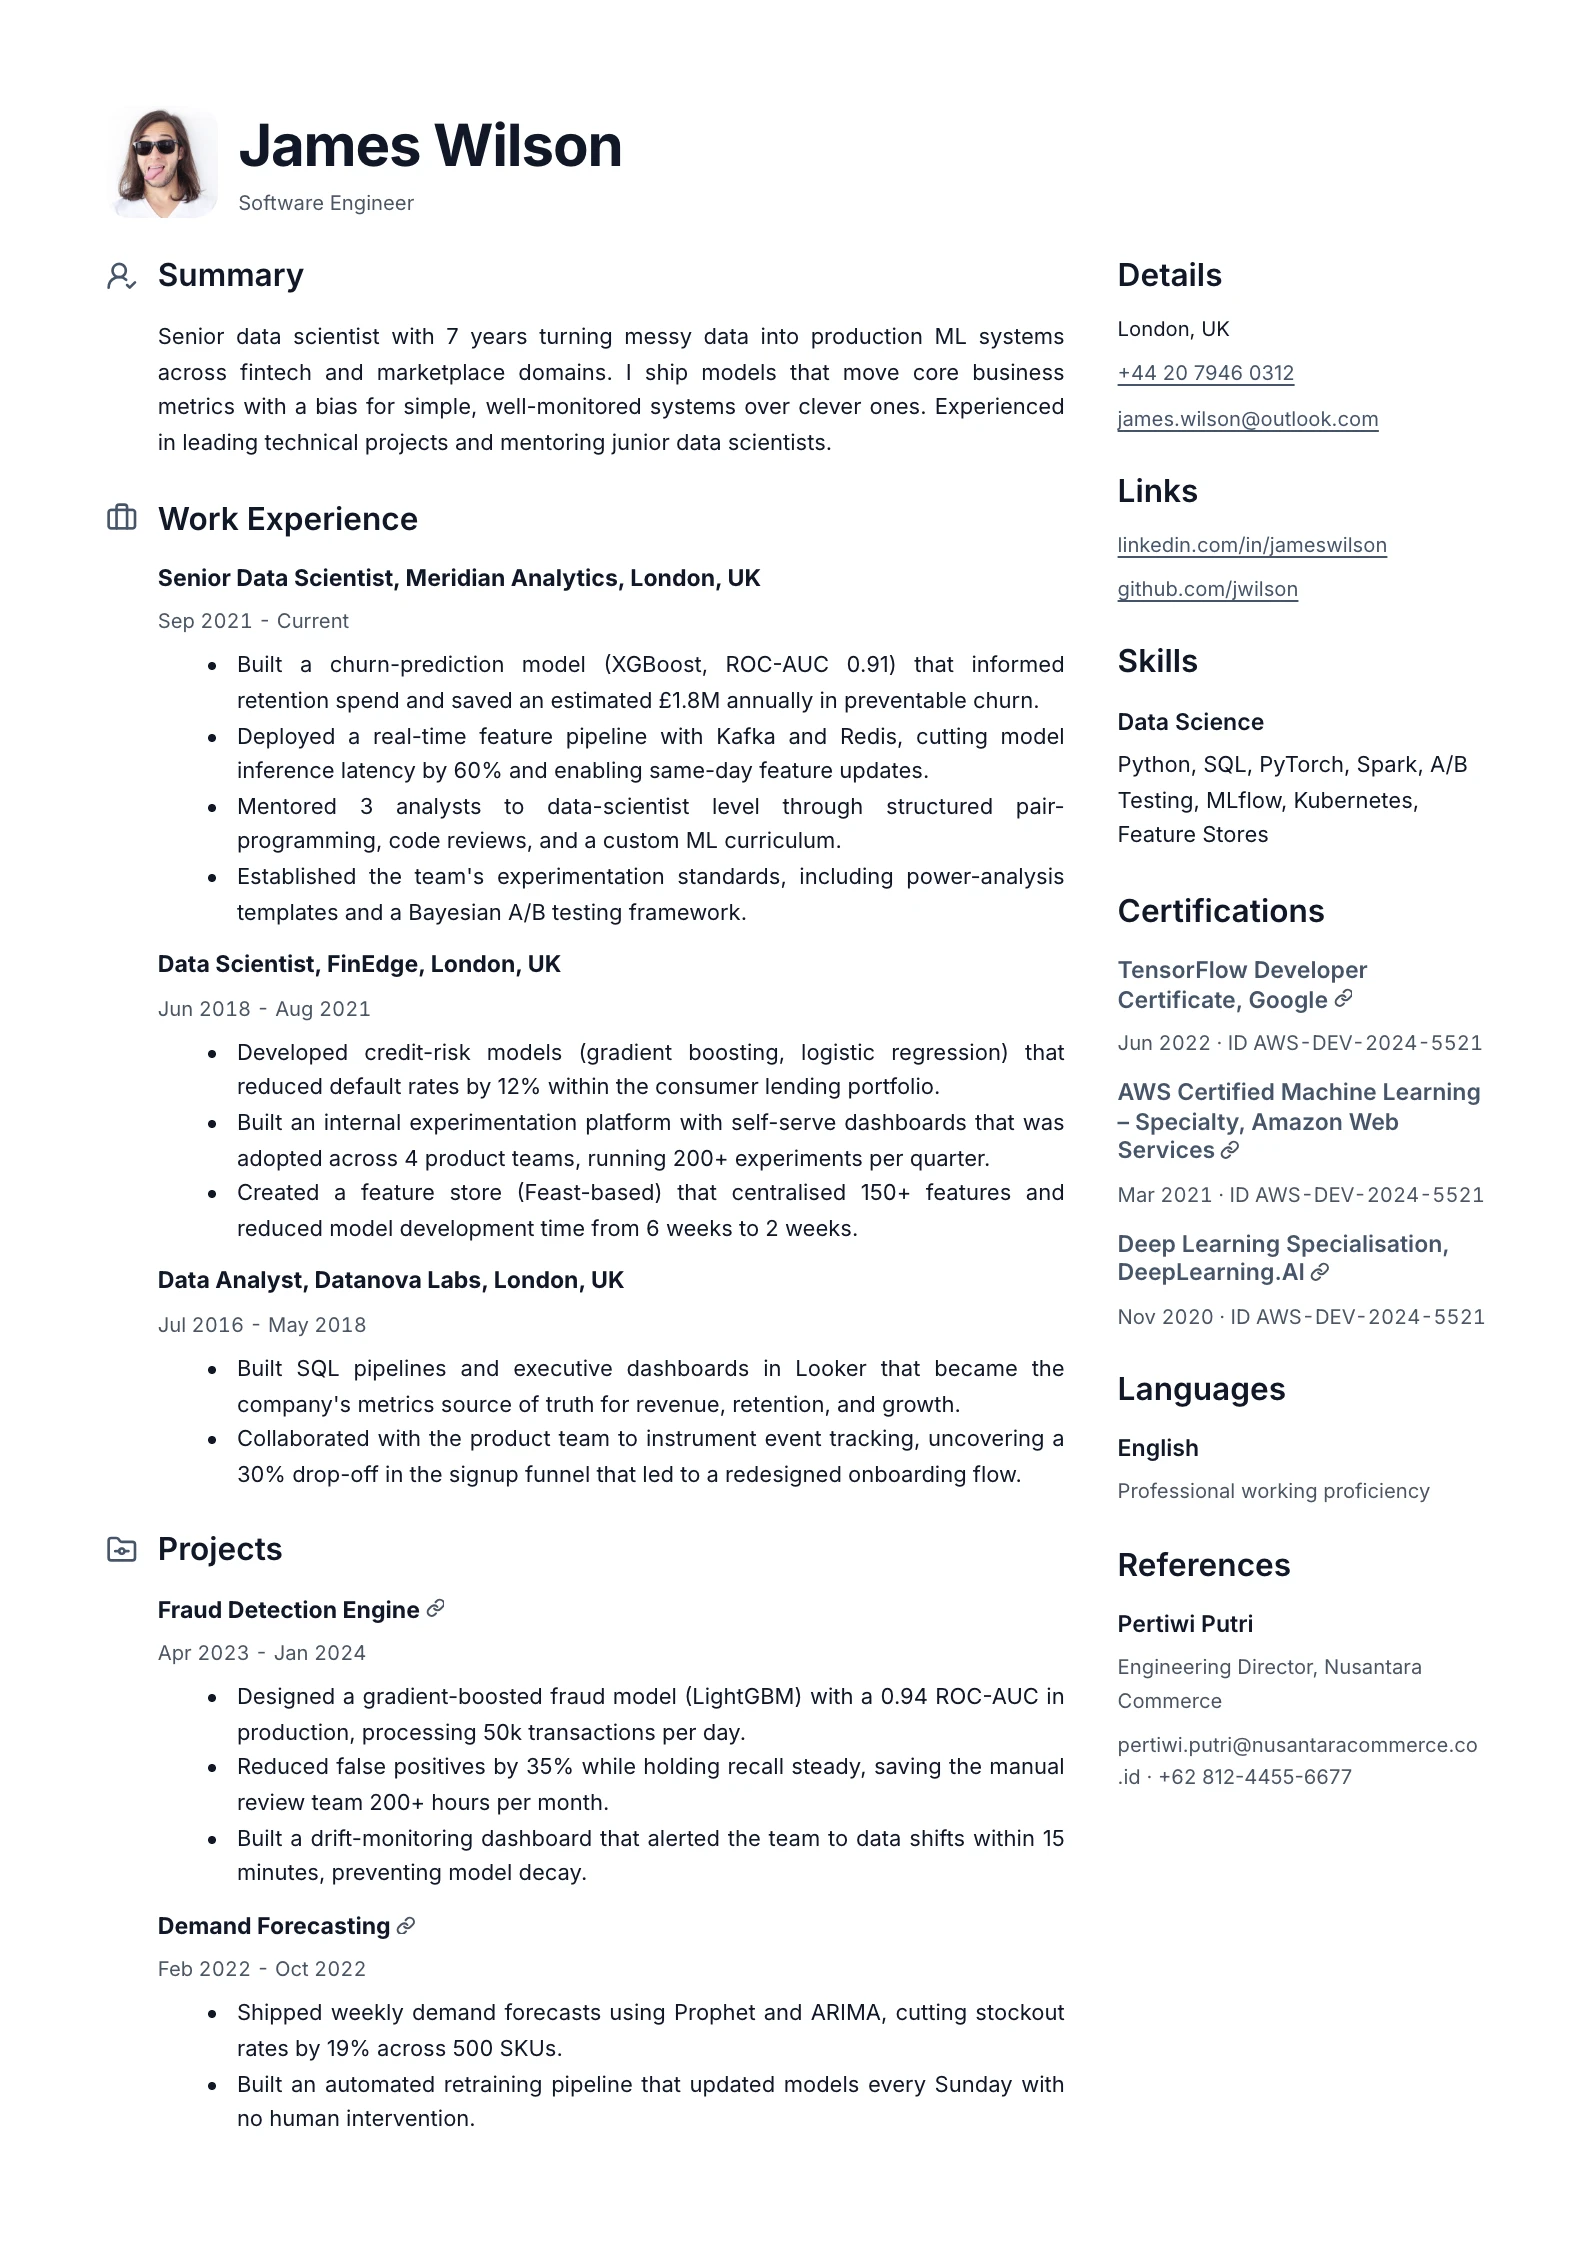
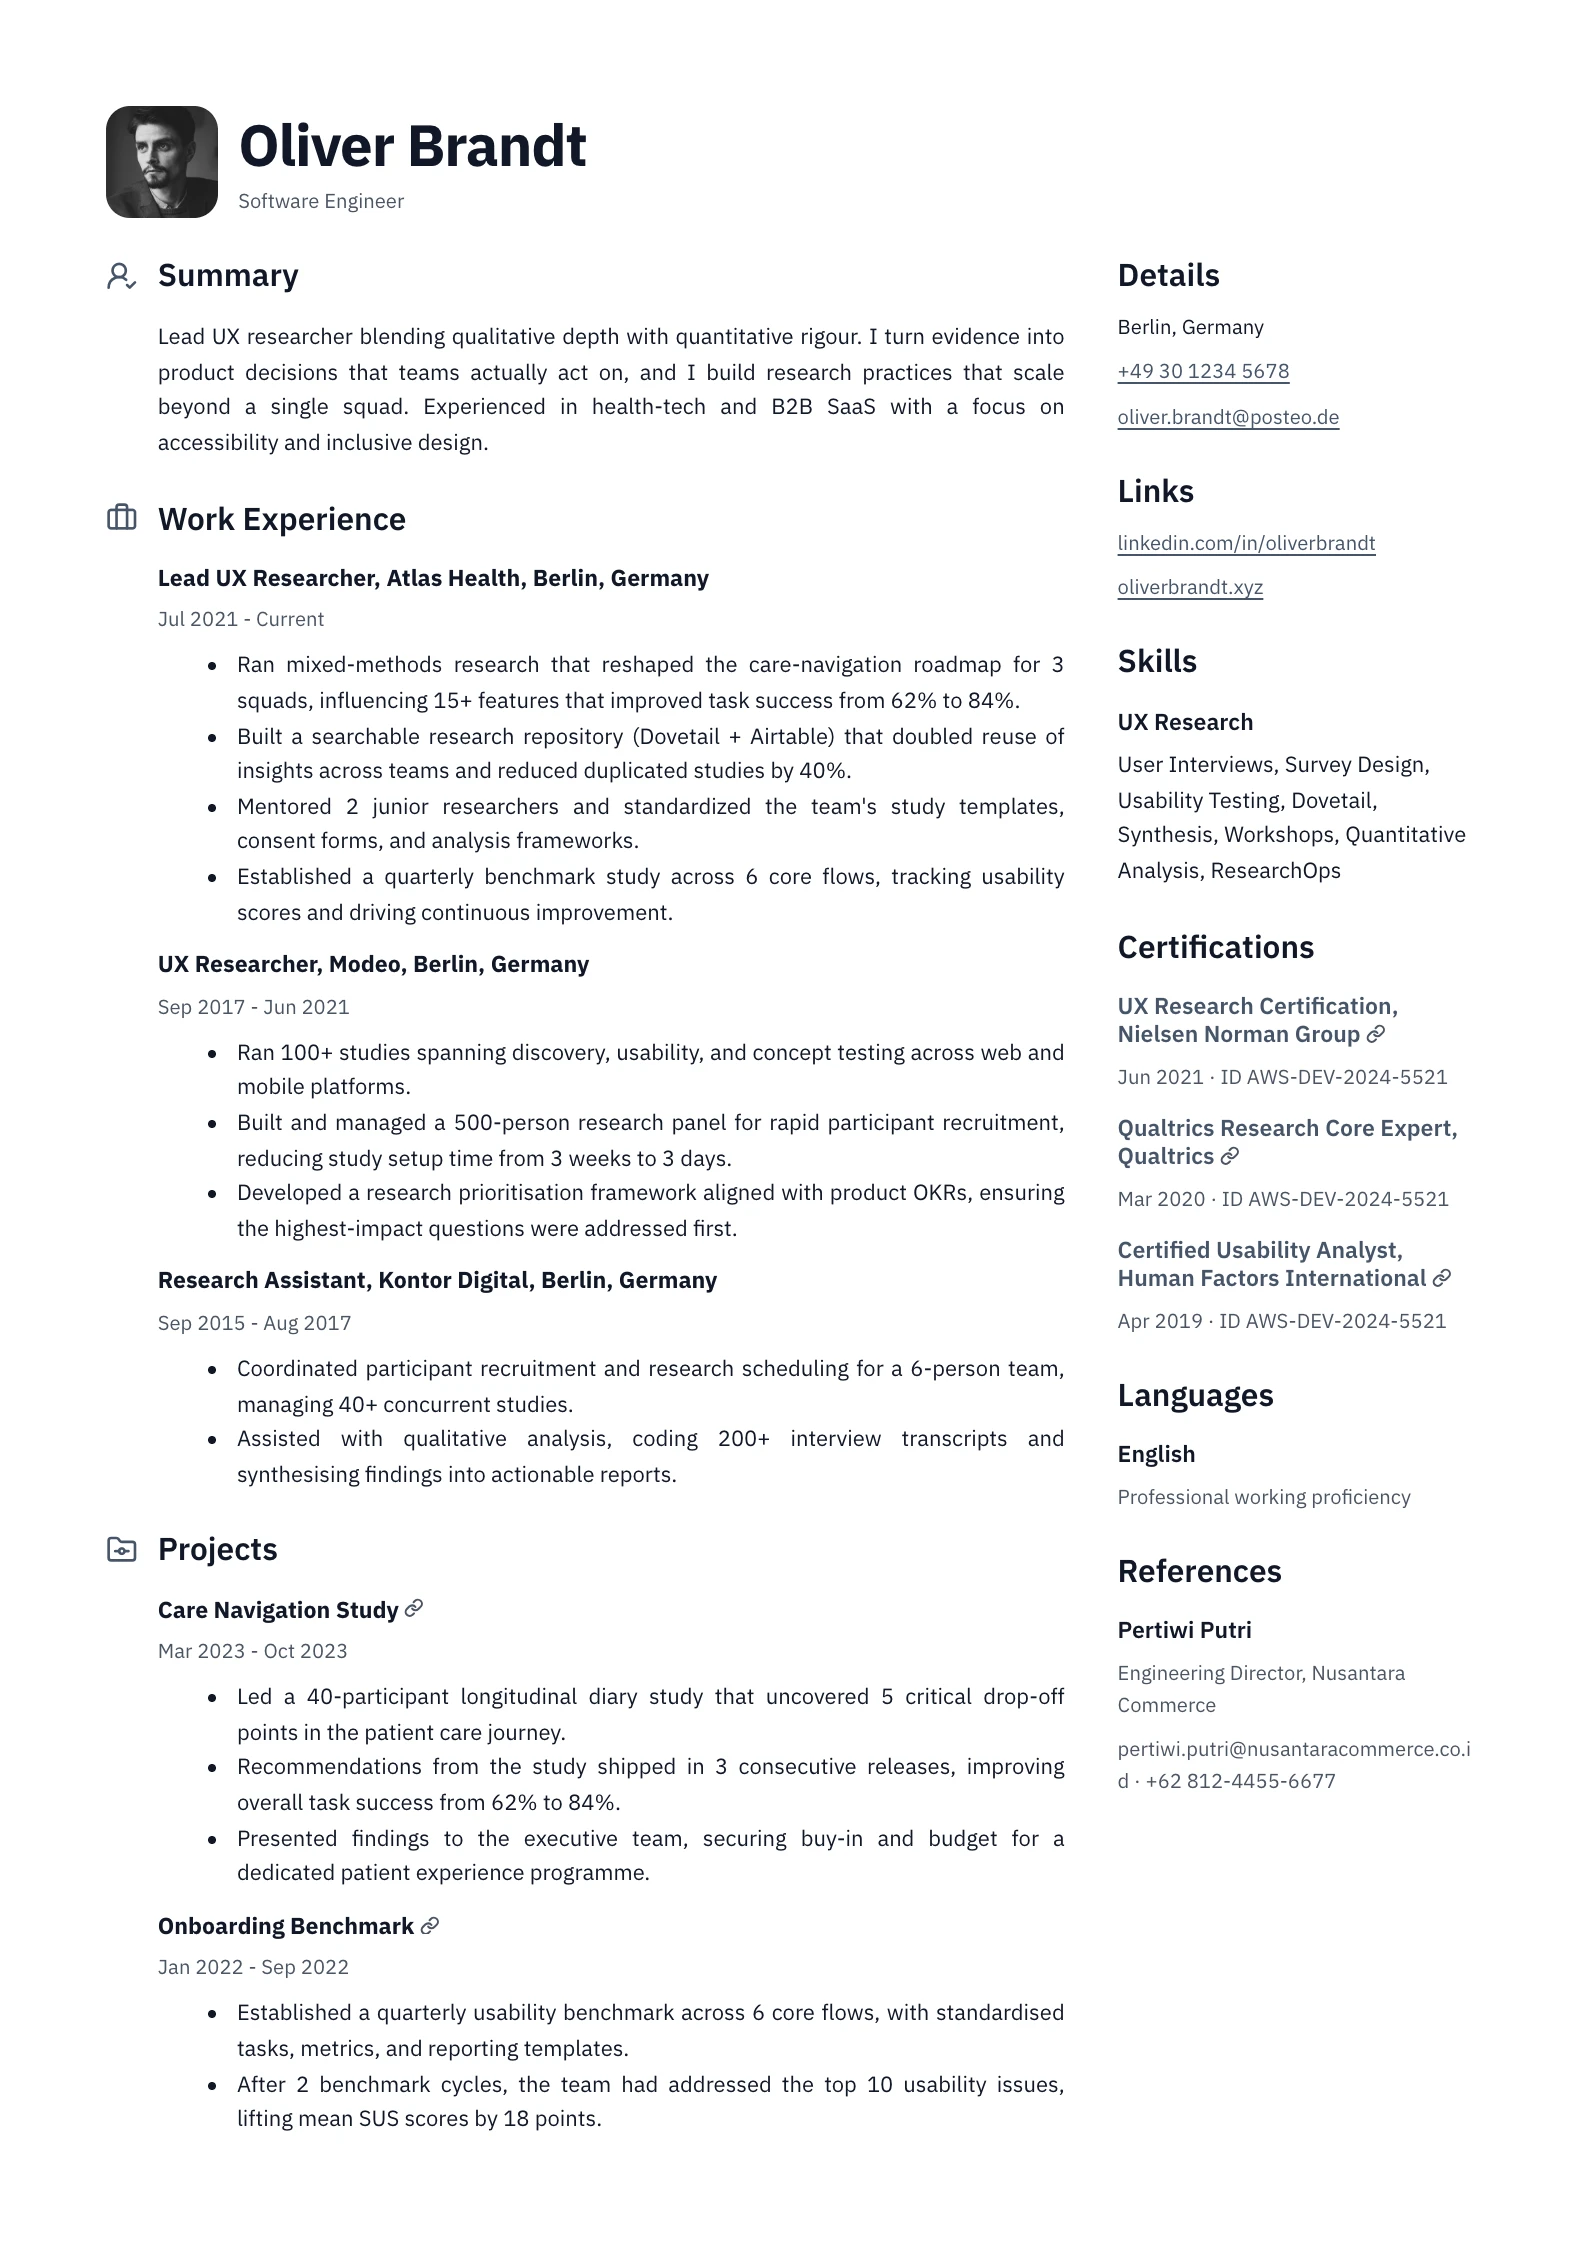
Widen the sans shelf, and re-font nine templates onto it
The font picker offered four sans faces — Inter, Lato, Open Sans, Roboto —
plus Arial, against seven serif and system choices. Every sans template
therefore drew from the same four, and the four are close enough that a
template's font was rarely the thing telling it apart.

Ten popular text sans faces are added to `src/app/fonts.ts` the way the
existing ones are loaded (`preload: false`, so they stay off the landing
page's critical path): Plus Jakarta Sans, Poppins, Montserrat, DM Sans,
Work Sans, Nunito Sans, Source Sans 3, Raleway, Manrope and IBM Plex Sans.
Poppins and IBM Plex Sans are not variable fonts, so both name their weights.

Then nine presets move onto them, one layout at a time, each pick made
against the rendered page rather than the font's reputation:

- Studio Violet    → Plus Jakarta Sans (a UI face for a product-UI layout)
- Masthead Citrus  → Montserrat        (the name plate is large uppercase)
- Bold Type Citrus → Poppins           (poster-scale type, marker highlights)
- Compass Slate    → IBM Plex Sans     (the marginal glyph index reads technical)
- Atlas Onyx       → Source Sans 3     (three narrow tracks want an economical face)
- Inset Steel      → Work Sans         (tight label gutter, compact density)
- Dossier Forest   → Manrope           (modern, but sober enough for the dark rail)
- Aurora Peach     → DM Sans           (geometric warmth under the gradient wash)
- Centered Ocean   → Nunito Sans       (a friendly face for a friendly format)
[…]

Changed region(s): [[0.0617, 0.0312, 0.6788, 0.9662], [0.7097, 0.0935, 0.9257, 0.8103]]

diff --git a/src/features/resume-editor/domain/presentation/template-presets.ts b/src/features/resume-editor/domain/presentation/template-presets.ts
@@ -28,6 +28,8 @@ export type ResumeTemplatePreset = {
 export const resumeTemplatePresets: ReadonlyArray<ResumeTemplatePreset> = [
   // Curation rules: `secondary` only for layouts that render it (else it's dead data the
   // active-template match still compares); density follows layout structure, not taste.
+  // A display sans (Poppins, Montserrat) only goes on a layout whose type is large;
+  // narrow-column layouts get a text sans that stays readable at 11px.
 
   // classic — traditional single column. Plain, ATS-safest pick; matches the stock default.
   {
@@ -77,7 +79,7 @@ export const resumeTemplatePresets: ReadonlyArray<ResumeTemplatePreset> = [
     style: {
       accent: "#0369a1",
       secondary: "#38bdf8",
-      fontFamilyId: "open-sans",
+      fontFamilyId: "nunito-sans",
       fontScale: "md",
       spacing: "standard",
       lineHeight: "standard",
@@ -171,7 +173,7 @@ export const resumeTemplatePresets: ReadonlyArray<ResumeTemplatePreset> = [
     layoutId: "inset",
     style: {
       accent: "#0f766e",
-      fontFamilyId: "open-sans",
+      fontFamilyId: "work-sans",
       fontScale: "sm",
       spacing: "compact",
       lineHeight: "standard",
@@ -255,7 +257,7 @@ export const resumeTemplatePresets: ReadonlyArray<ResumeTemplatePreset> = [
     layoutId: "bold-type",
     style: {
       accent: "#ea580c",
-      fontFamilyId: "inter",
+      fontFamilyId: "poppins",
       fontScale: "md",
       spacing: "compact",
       lineHeight: "tight",
@@ -282,7 +284,7 @@ export const resumeTemplatePresets: ReadonlyArray<ResumeTemplatePreset> = [
     layoutId: "studio",
     style: {
       accent: "#7c3aed",
-      fontFamilyId: "inter",
+      fontFamilyId: "plus-jakarta-sans",
       fontScale: "md",
       spacing: "standard",
       lineHeight: "standard",
@@ -323,7 +325,7 @@ export const resumeTemplatePresets: ReadonlyArray<ResumeTemplatePreset> = [
     style: {
       accent: "#fda4af",
       secondary: "#fdba74",
-      fontFamilyId: "lato",
+      fontFamilyId: "dm-sans",
       fontScale: "sm",
       spacing: "standard",
       lineHeight: "standard",
@@ -378,7 +380,7 @@ export const resumeTemplatePresets: ReadonlyArray<ResumeTemplatePreset> = [
     style: {
       accent: "#14261d",
       secondary: "#1f3d2b",
-      fontFamilyId: "inter",
+      fontFamilyId: "manrope",
       fontScale: "sm",
       spacing: "compact",
       lineHeight: "standard",
@@ -421,7 +423,7 @@ export const resumeTemplatePresets: ReadonlyArray<ResumeTemplatePreset> = [
     style: {
       accent: "#f7d949",
       secondary: "#111827",
-      fontFamilyId: "lato",
+      fontFamilyId: "montserrat",
       fontScale: "sm",
       spacing: "standard",
       lineHeight: "standard",
@@ -448,7 +450,7 @@ export const resumeTemplatePresets: ReadonlyArray<ResumeTemplatePreset> = [
     layoutId: "compass",
     style: {
       accent: "#475569",
-      fontFamilyId: "inter",
+      fontFamilyId: "ibm-plex-sans",
       fontScale: "sm",
       spacing: "standard",
       lineHeight: "standard",
@@ -502,7 +504,7 @@ export const resumeTemplatePresets: ReadonlyArray<ResumeTemplatePreset> = [
     layoutId: "atlas",
     style: {
       accent: "#171717",
-      fontFamilyId: "inter",
+      fontFamilyId: "source-sans-3",
       fontScale: "sm",
       spacing: "compact",
       lineHeight: "standard",

diff --git a/src/app/fonts.ts b/src/app/fonts.ts
@@ -1,10 +1,20 @@
 import {
+  DM_Sans,
+  IBM_Plex_Sans,
   Lato,
   Lora,
+  Manrope,
   Merriweather,
+  Montserrat,
+  Nunito_Sans,
   Open_Sans,
   Playfair_Display,
+  Plus_Jakarta_Sans,
+  Poppins,
+  Raleway,
   Roboto,
+  Source_Sans_3,
+  Work_Sans,
 } from "next/font/google";
 
 // Editor-preview-only fonts; `preload: false` keeps them off every route's
@@ -50,6 +60,78 @@ export const fontPlayfairDisplay = Playfair_Display({
 export const fontLora = Lora({
   subsets: ["latin"],
   variable: "--font-lora",
+  display: "swap",
+  preload: false,
+});
+
+export const fontPlusJakartaSans = Plus_Jakarta_Sans({
+  subsets: ["latin"],
+  variable: "--font-plus-jakarta-sans",
+  display: "swap",
+  preload: false,
+});
+
+export const fontPoppins = Poppins({
+  subsets: ["latin"],
+  weight: ["400", "500", "600", "700"],
+  variable: "--font-poppins",
+  display: "swap",
+  preload: false,
+});
+
+export const fontMontserrat = Montserrat({
+  subsets: ["latin"],
+  variable: "--font-montserrat",
+  display: "swap",
+  preload: false,
+});
+
+export const fontDmSans = DM_Sans({
+  subsets: ["latin"],
+  variable: "--font-dm-sans",
+  display: "swap",
+  preload: false,
+});
+
+export const fontWorkSans = Work_Sans({
+  subsets: ["latin"],
+  variable: "--font-work-sans",
+  display: "swap",
+  preload: false,
+});
+
+export const fontNunitoSans = Nunito_Sans({
+  subsets: ["latin"],
+  variable: "--font-nunito-sans",
+  display: "swap",
+  preload: false,
+});
+
+export const fontSourceSans3 = Source_Sans_3({
+  subsets: ["latin"],
+  variable: "--font-source-sans-3",
+  display: "swap",
+  preload: false,
+});
+
+export const fontRaleway = Raleway({
+  subsets: ["latin"],
+  variable: "--font-raleway",
+  display: "swap",
+  preload: false,
+});
+
+export const fontManrope = Manrope({
+  subsets: ["latin"],
+  variable: "--font-manrope",
+  display: "swap",
+  preload: false,
+});
+
+export const fontIbmPlexSans = IBM_Plex_Sans({
+  subsets: ["latin"],
+  weight: ["400", "500", "600", "700"],
+  variable: "--font-ibm-plex-sans",
   display: "swap",
   preload: false,
 });

diff --git a/src/features/resume-editor/domain/presentation/font-collection.ts b/src/features/resume-editor/domain/presentation/font-collection.ts
@@ -29,6 +29,76 @@ export const RESUME_FONTS = [
     source: "google",
     stack: 'var(--font-roboto), sans-serif',
   },
+  {
+    id: "plus-jakarta-sans",
+    name: "Plus Jakarta Sans",
+    category: "sans",
+    source: "google",
+    stack: 'var(--font-plus-jakarta-sans), sans-serif',
+  },
+  {
+    id: "poppins",
+    name: "Poppins",
+    category: "sans",
+    source: "google",
+    stack: 'var(--font-poppins), sans-serif',
+  },
+  {
+    id: "montserrat",
+    name: "Montserrat",
+    category: "sans",
+    source: "google",
+    stack: 'var(--font-montserrat), sans-serif',
+  },
+  {
+    id: "dm-sans",
+    name: "DM Sans",
+    category: "sans",
+    source: "google",
+    stack: 'var(--font-dm-sans), sans-serif',
+  },
+  {
+    id: "work-sans",
+    name: "Work Sans",
+    category: "sans",
+    source: "google",
+    stack: 'var(--font-work-sans), sans-serif',
+  },
+  {
+    id: "nunito-sans",
+    name: "Nunito Sans",
+    category: "sans",
+    source: "google",
+    stack: 'var(--font-nunito-sans), sans-serif',
+  },
+  {
+    id: "source-sans-3",
+    name: "Source Sans 3",
+    category: "sans",
+    source: "google",
+    stack: 'var(--font-source-sans-3), sans-serif',
+  },
+  {
+    id: "raleway",
+    name: "Raleway",
+    category: "sans",
+    source: "google",
+    stack: 'var(--font-raleway), sans-serif',
+  },
+  {
+    id: "manrope",
+    name: "Manrope",
+    category: "sans",
+    source: "google",
+    stack: 'var(--font-manrope), sans-serif',
+  },
+  {
+    id: "ibm-plex-sans",
+    name: "IBM Plex Sans",
+    category: "sans",
+    source: "google",
+    stack: 'var(--font-ibm-plex-sans), sans-serif',
+  },
   // Serif — Google Fonts
   {
     id: "merriweather",

diff --git a/src/app/layout.tsx b/src/app/layout.tsx
@@ -6,12 +6,22 @@ import { cn } from "@/lib/utils";
 import { Toaster } from "@/components/ui/toast";
 import { TooltipProvider } from "@/components/ui/tooltip";
 import {
+  fontDmSans,
+  fontIbmPlexSans,
   fontLato,
   fontLora,
+  fontManrope,
   fontMerriweather,
+  fontMontserrat,
+  fontNunitoSans,
   fontOpenSans,
   fontPlayfairDisplay,
+  fontPlusJakartaSans,
+  fontPoppins,
+  fontRaleway,
   fontRoboto,
+  fontSourceSans3,
+  fontWorkSans,
 } from "@/app/fonts";
 
 const inter = Inter({ subsets: ["latin"], variable: "--font-sans" });
@@ -79,6 +89,16 @@ export default function RootLayout({
         fontMerriweather.variable,
         fontPlayfairDisplay.variable,
         fontLora.variable,
+        fontPlusJakartaSans.variable,
+        fontPoppins.variable,
+        fontMontserrat.variable,
+        fontDmSans.variable,
+        fontWorkSans.variable,
+        fontNunitoSans.variable,
+        fontSourceSans3.variable,
+        fontRaleway.variable,
+        fontManrope.variable,
+        fontIbmPlexSans.variable,
       )}
     >
       <body className="min-h-full flex flex-col">
